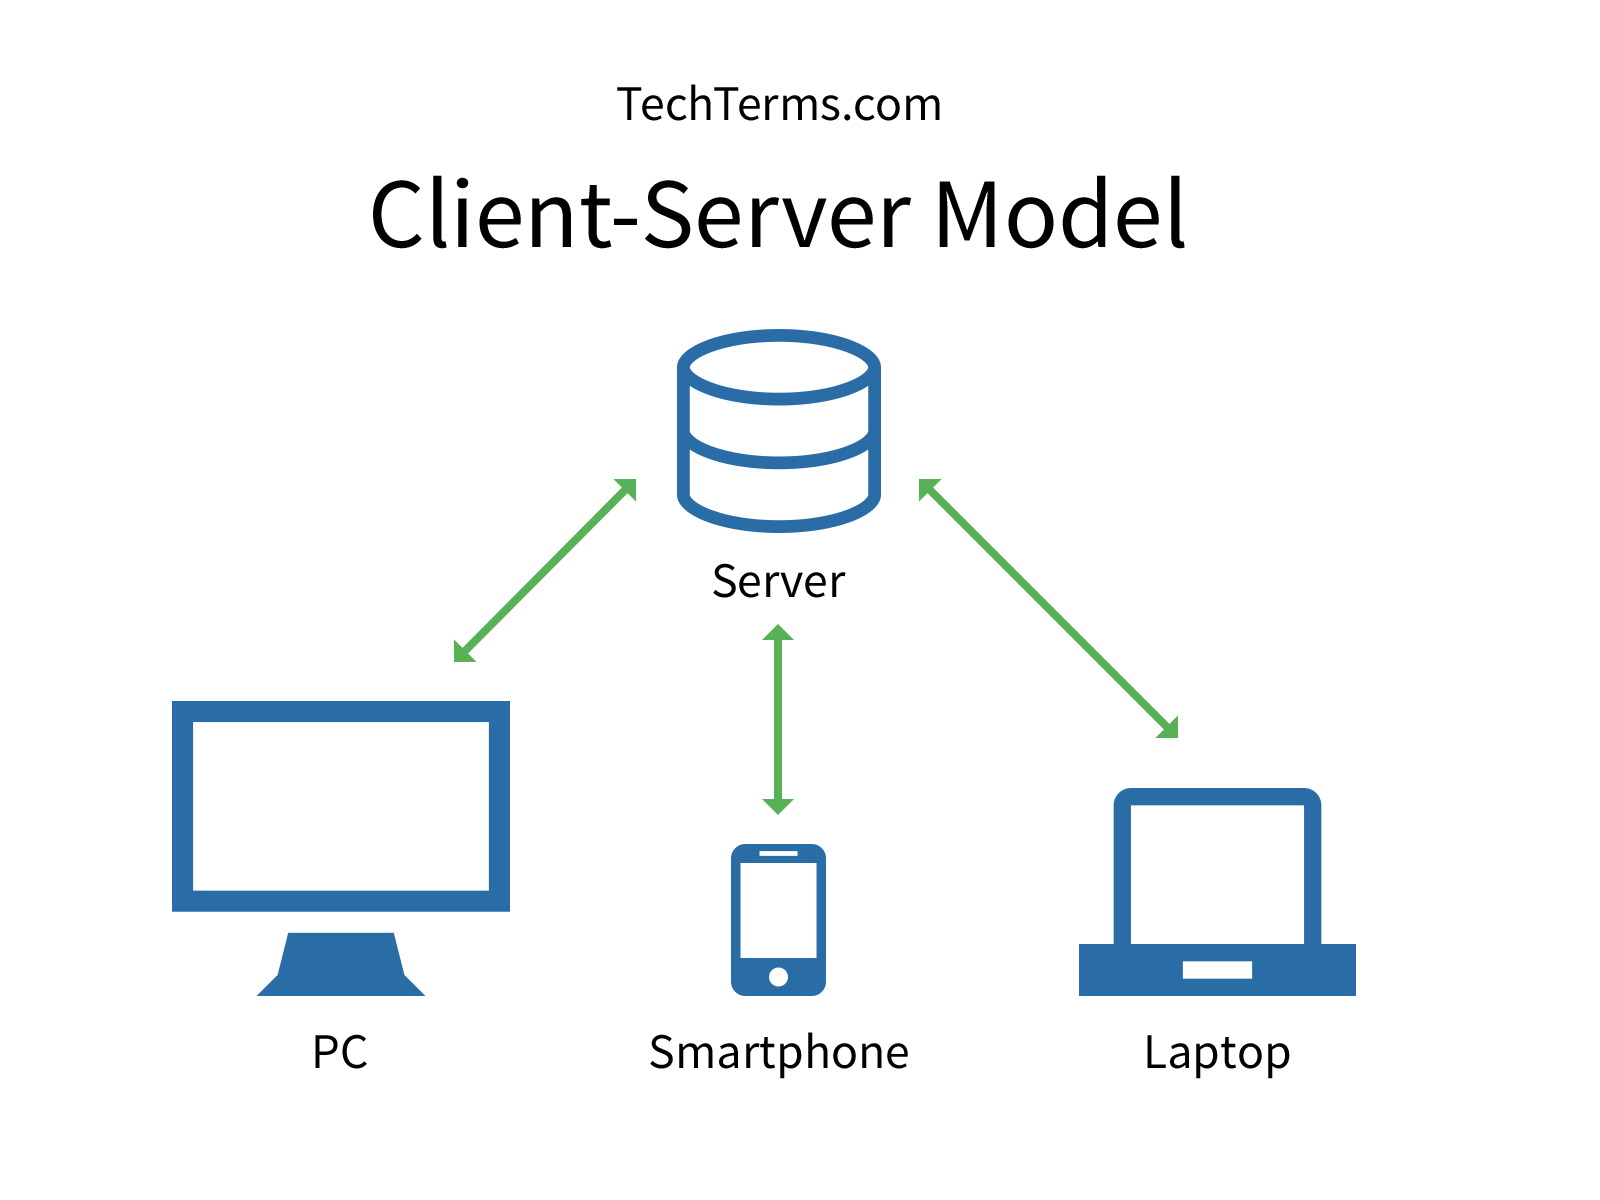
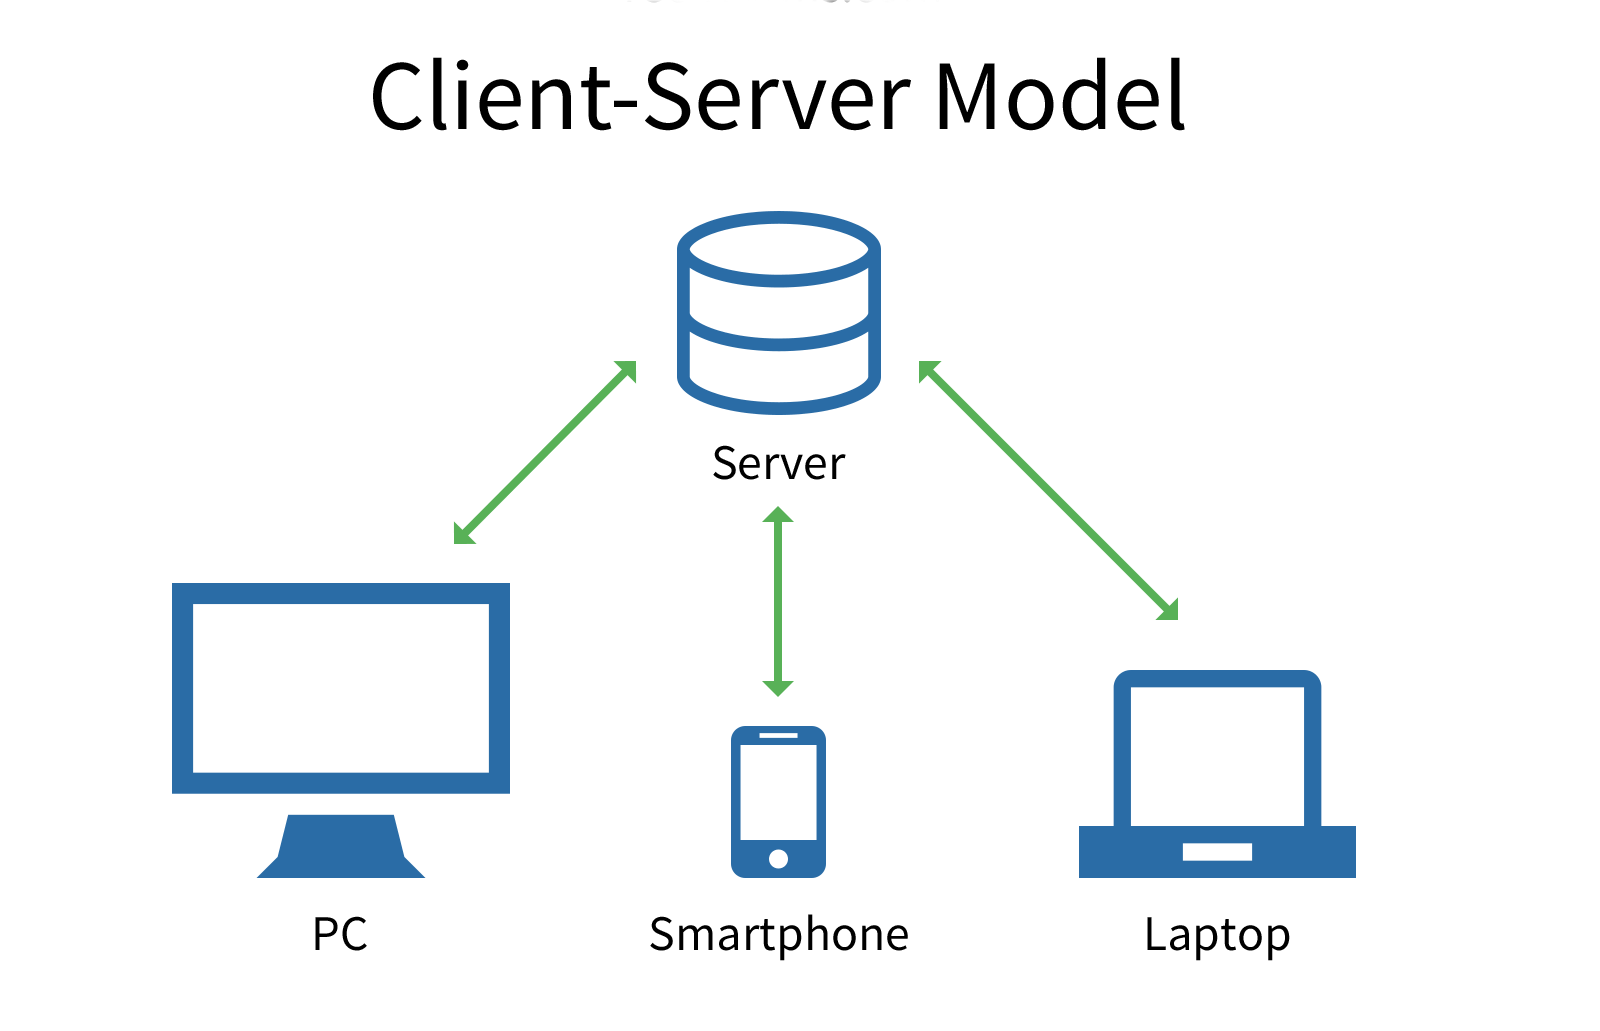
add slides

diff --git a/01_network_basics/index.html b/01_network_basics/index.html
@@ -59,6 +59,7 @@
         <h2>План урока</h2>
         <ol>
             <li>Как работает интернет</li>
+            <li>Передача данных при помощи интернет</li>
         </ol>
     </section>
 
@@ -154,47 +155,6 @@
         </style>
     </section>
 
-    <section class="slide" id="what-internet-3">
-        <h2>Что такое Интернет?</h2>
-        <div class="canvas">
-          <div class="server">
-            <img src="./pictures/server.jpg" alt="">
-            <p><em>31.13.81.36</em></p>
-            <p>facebook.com</p>
-          </div>
-          <div class="server">
-            <img src="./pictures/server.jpg" alt="">
-            <p><em>216.58.215.78</em></p>
-            <p>google.com</p>
-          </div>
-          <div class="server">
-            <img src="./pictures/server.jpg" alt="">
-            <p><em>56.58.12.73</em></p>
-            <p>amazon.com</p>
-          </div>
-          <div class="server">
-            <img src="./pictures/server.jpg" alt="">
-            <p><em>112.18.12.23</em></p>
-            <p>ebay.com</p>
-          </div>
-        </div>
-
-        <style>
-          #what-internet-3 .canvas {
-            display: flex;
-            width: 100%;
-            height: 400px;
-            position: relative;
-            justify-content: space-between;
-            margin-top: 40px;
-          }
-          #what-internet-3 .canvas p {
-            margin: 0;
-            text-align: center;
-          }
-        </style>
-    </section>
-
     <section class="slide" id="what-internet-4">
         <h2>Что такое Интернет?</h2>
         <div class="canvas">
@@ -263,58 +223,121 @@
     <section class="slide">
         <h2>Что такое Интернет?</h2>
         <center>
-            <img width="500" src="./pictures/client-server-model.png" alt="">
+            <img width="600" src="./pictures/client-server-model.png" alt="">
         </center>
     </section>
 
     <section class="slide">
-        <h2>Code samples</h2>
-        <pre>
-            <code>&lt;!DOCTYPE html&gt;</code>
-            <code class="mark">&lt;html lang="en"&gt;</code>
-            <code><mark>&lt;head&gt;</mark> <span class="comment">&lt;!--Comment--&gt;</span></code>
-            <code>    &lt;title&gt;Shower&lt;/title&gt;</code>
-            <code>    &lt;meta charset="<mark class="important">UTF-8</mark>"&gt;</code>
-            <code>    &lt;link rel="stylesheet" href="screen.css"&gt;</code>
-            <code><mark>&lt;/head&gt;</mark></code>
-        </pre>
+        <h2>Как передаются данные?</h2>
+        <center style="margin-top: 40px">
+            <img width="600" src="./pictures/internet-schema-1.png" alt="">
+        </center>
+        <p style="margin-top: 20px">Когда нужно связать между собой два компьютера, вы должны связать их в сеть либо проводным обычно с помощью Ethernet кабеля, либо беспроводным способом например, с помощью WiFi или Bluetooth.</p>
     </section>
 
     <section class="slide">
-        <h2>Even tables</h2>
-        <table>
-        <tr>
-            <th scope="col">Locavore</th>
-            <th>Umami</th>
-            <th>Helvetica</th>
-            <th>Vegan</th>
-        </tr>
-        <tr>
-            <th scope="row">Fingerstache</th>
-            <td>Kale</td>
-            <td>Chips</td>
-            <td>Keytar</td>
-        </tr>
-        <tr>
-            <th scope="row">Sriracha</th>
-            <td>Gluten-free</td>
-            <td>Ennui</td>
-            <td>Keffiyeh</td>
-        </tr>
-        <tr>
-            <th scope="row">Thundercats</th>
-            <td>Jean</td>
-            <td>Shorts</td>
-            <td>Biodiesel</td>
-        </tr>
-        <tr>
-            <th scope="row">Terry</th>
-            <td>Richardson</td>
-            <td>Swag</td>
-            <td>Blog</td>
-        </tr>
-        </table>
-        <p>It’s good to have information organized.</p>
+        <h2>Как передаются данные?</h2>
+        <div class="columns two">
+          <p><img width="400" src="./pictures/internet-schema-2.png" alt=""></p>
+          <p style="margin-top: 20px">Что будет если их будет больше? <br>Например для 10 компьютеров, вам понадобится 45 кабелей и 9 сетевых плат в каждом компьютере.</p>
+        </div>
+    </section>
+
+    <section class="slide">
+        <h2>Как передаются данные?</h2>
+        <div class="columns two">
+          <p><img width="400" src="./pictures/internet-schema-3.png" alt=""></p>
+          <p style="margin-top: 20px">Для таких вещей нам пригодиться маршрутизатор.</p>
+        </div>
+    </section>
+
+    <section class="slide">
+        <h2>Как передаются данные?</h2>
+        <div class="columns two" style="margin-top: 100px">
+          <p>
+            <img width="400" src="./pictures/internet-schema-4.png" alt="">
+          </p>
+          <p style="margin-top: 20px">Можем так же соединить друг с другом два маршрутизатора.</p>
+        </div>
+    </section>
+
+    <section class="slide">
+        <h2>Как передаются данные?</h2>
+        <div class="columns two" style="margin-top: 40px">
+          <p>
+            <img width="400" src="./pictures/internet-schema-5.png" alt="">
+          </p>
+          <p style="margin-top: 20px">Подключая компьютеры к маршрутизатору, а затем маршрутизатор к другому маршрутизатору, мы можем увеличивать нашу сеть до сколь угодно больших размеров.</p>
+        </div>
+    </section>
+
+    <section class="slide">
+        <h2>Как передаются данные?</h2>
+        <div class="columns two" style="margin-top: 40px;  grid-template-columns: 1fr 2fr;">
+          <p>
+            <img width="140" style="margin: 0 auto; display: block;" src="./pictures/internet-schema-6.png" alt="">
+          </p>
+          <p><small>Следующий шаг — передать сообщение из нашей сети в сеть, с которой мы хотим связаться. Чтобы сделать это, мы должны подключить нашу сеть к провайдеру услуг интернета <strong>ISP</strong> (Internet Service Provider). <br>Таким образом, наше сообщение, пройдя транзитом через сеть нескольких провайдеров, достигнет сеть назначения.</small></p>
+        </div>
+    </section>
+
+    <section class="slide" id="what-internet-3">
+        <h2>Поиск устройства</h2>
+        <p><small>Для того что б можно было обратится к устройству он должен иметь адресс</small></p>
+        <div class="canvas">
+          <div class="server">
+            <img src="./pictures/server.jpg" alt="">
+            <p><em>31.13.81.36</em></p>
+            <p>facebook.com</p>
+          </div>
+          <div class="server">
+            <img src="./pictures/server.jpg" alt="">
+            <p><em>216.58.215.78</em></p>
+            <p>google.com</p>
+          </div>
+          <div class="server">
+            <img src="./pictures/server.jpg" alt="">
+            <p><em>56.58.12.73</em></p>
+            <p>amazon.com</p>
+          </div>
+          <div class="server">
+            <img src="./pictures/server.jpg" alt="">
+            <p><em>112.18.12.23</em></p>
+            <p>ebay.com</p>
+          </div>
+        </div>
+
+        <style>
+          #what-internet-3 .canvas {
+            display: flex;
+            width: 100%;
+            height: 400px;
+            position: relative;
+            justify-content: space-between;
+            margin-top: 40px;
+          }
+          #what-internet-3 .canvas p {
+            margin: 0;
+            text-align: center;
+          }
+        </style>
+    </section>
+
+    <section class="slide">
+        <h2>Поиск устройства</h2>
+        <p>Основные понятия при адресации</p>
+        <ul>
+          <li><small><strong>IP</strong> <em>(Internet Protocol Address)</em> - уникальный адрес в сети, необходимый для нахождения, передачи и получения информации от одного компьютера (узла) к другому.</small></li>
+          <li><small><strong>MAC-address</strong> <em>(Media Access Control)</em> - это физический адрес сетевого устройства жестко с ним связанный.</small></li>
+          <li><small><strong>DNS</strong> <em>(Domain Name System)</em> - Система доменных имён. Компьютерная распределённая система для получения информации о доменах.</small></li>
+        </ul>
+    </section>
+
+    <section class="slide">
+        <h2>Подробнее про DNS</h2>
+        <center>
+          <img width="700" style="position: relative; top: -20px" src="./pictures/DNS.jpg" alt="">
+        </center>
     </section>
 
     <section class="slide" id="picture">
